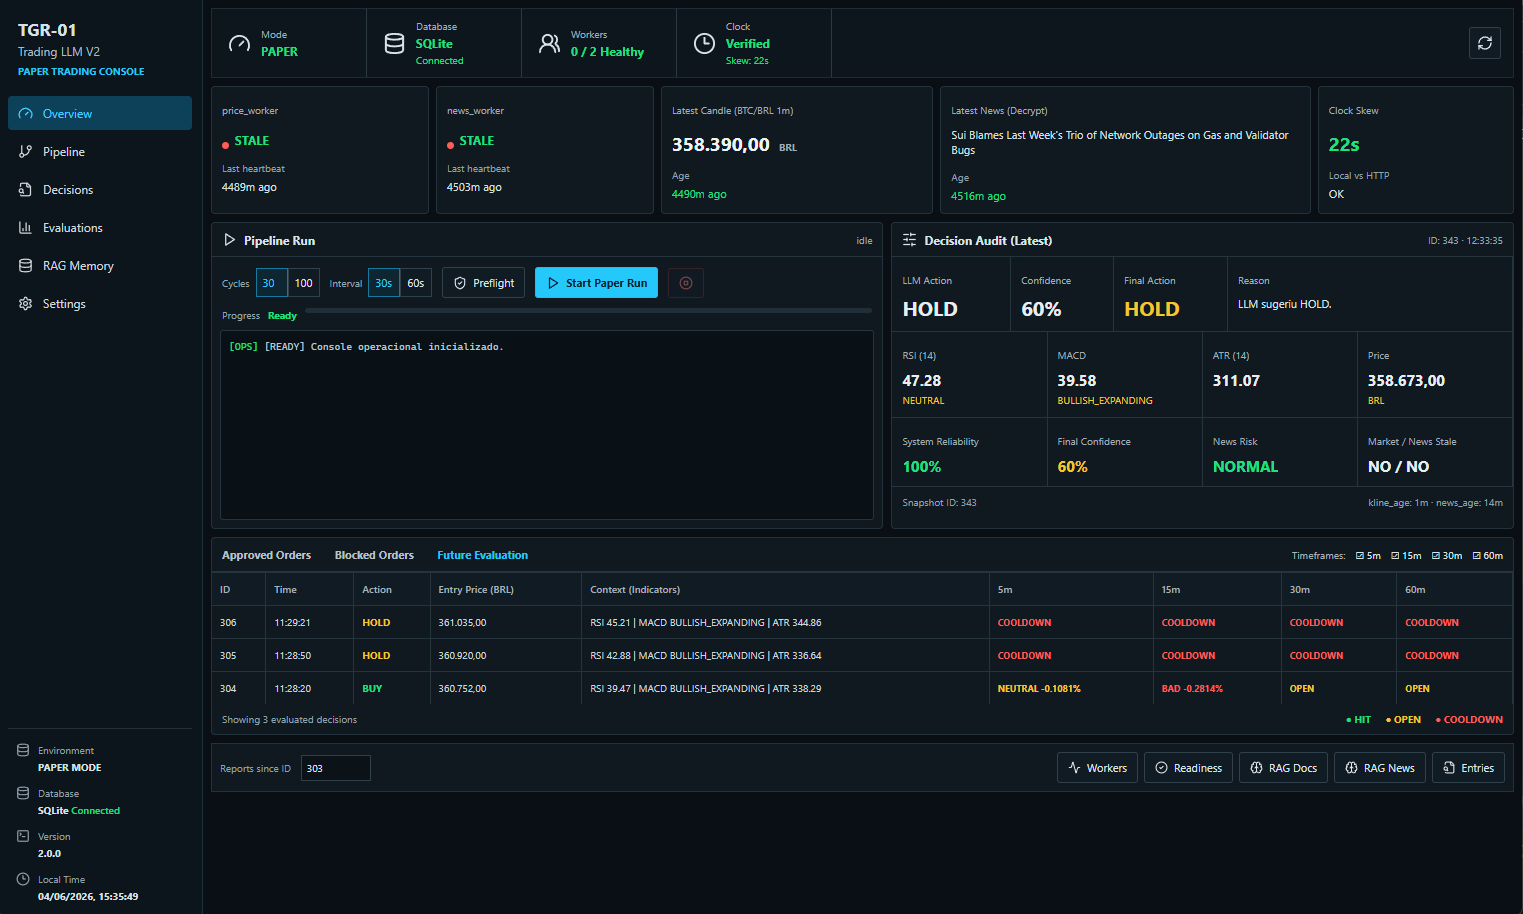
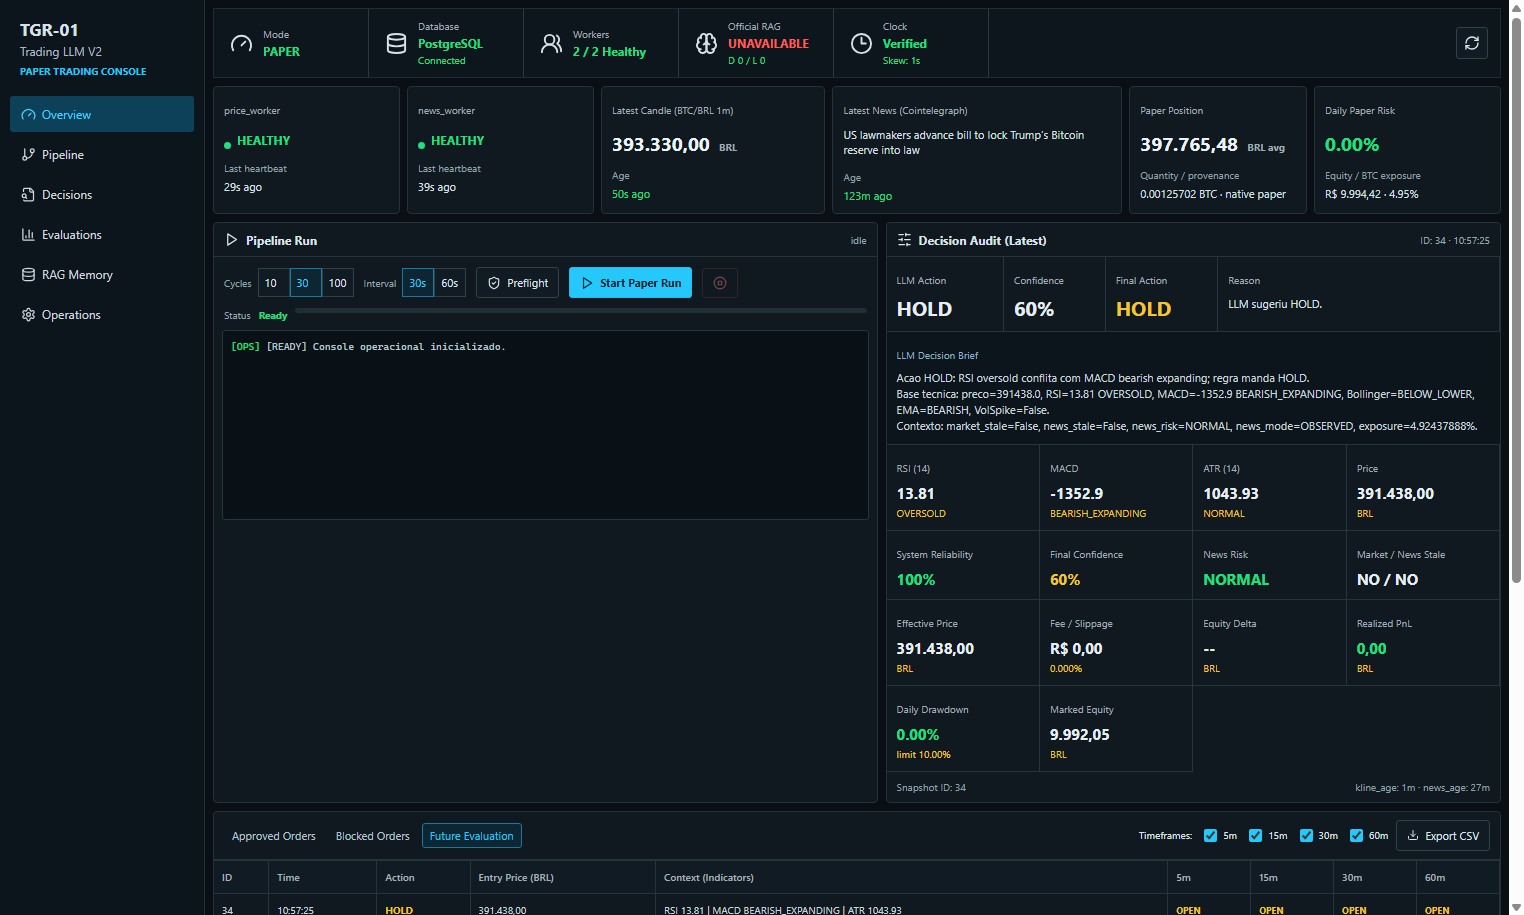
docs(readme): correct stale counts, models, commands and add live console captures

diff --git a/README.md b/README.md
@@ -24,31 +24,46 @@ observability coverage, but it has **not demonstrated a profitable strategy**.
 | Execution | Paper trading only |
 | Real exchange orders | Not implemented; authenticated BUY/SELL validation is dry-run only |
 | Active database | PostgreSQL 16 |
-| Experimental agent models | CIO: `glm-5.2:cloud`; News/Technical: `deepseek-v4-flash:cloud` through Ollama |
+| Experimental agent models | Decision `kimi-k2.7-code:cloud`; News/Technical `glm-5.3:cloud`, through the local Ollama daemon |
 | Operator interfaces | Python/Textual TUI and Electron console |
 | Neural model | TCN archived as unsuccessful research |
 | RAG | Official [Hybrid RAG Engine](https://github.com/fareloj/hybrid-rag-engine); local memory remains auxiliary |
-| Latest backend validation | 340 Python tests passing |
-| Latest desktop validation | 6 Node tests, Vite build, and Electron smoke passing |
+| Latest backend validation | 438 Python tests passing |
+| Latest desktop validation | 35 Node tests, Vite build, and Electron smoke passing |
 
-These test counts describe the state recorded on 2026-08-14. They validate
+These test counts describe the state recorded on 2026-09-16. They validate
 contracts, failure behavior, accounting, and interfaces. They do not measure
 future returns.
 
-The current Ollama Cloud configuration is a **paper-only experiment**. GLM 5.2
-acts as the CIO/Decision Agent, while DeepSeek V4 Flash handles the News and
-Technical roles when the multi-agent pipeline is enabled. This assignment is
+The current configuration is a **paper-only experiment**. The Decision Agent
+uses Kimi K2.7 Code as the final proposal, while GLM 5.3 handles the News and
+Technical roles in the multi-agent pipeline. Each role resolves its own provider,
+model, temperature, token budget and reasoning effort through
+`backend/agents/model_config.py`; the sanctioned providers are the local Ollama
+daemon, the direct Ollama Cloud API and OpenCode Go. This assignment is
 engineering configuration, not model-selection or profitability evidence.
 
 The accepted paper-only boundary and known limitations are documented in
-[Final Acceptance](docs/reports/FINAL_ACCEPTANCE.md). The latest adversarial
-review is in [Operational Red Team](docs/reports/RED_TEAM_REPORT_2026-08-01.md).
+[Final Acceptance](docs/reports/FINAL_ACCEPTANCE.md). The August operational adversarial review is in
+[Operational Red Team](docs/reports/RED_TEAM_REPORT_2026-08-01.md); subsequent
+review passes and corrections are recorded in the
+[September handoff](docs/reports/SESSION_HANDOFF_2026-09-16.md).
 
 ## Interfaces
 
 ### Electron operations console
 
 ![Electron operations console](docs/assets/electron-ops-console.png)
+
+### Cost Reality panel
+
+The console shows the cost that dominates the decision, not only the decision
+itself: the per-side cost, both round-trip hurdles, the ratio between the typical
+60-minute move and the BUY cost, the conviction gate, the blocking reasons and
+the model assigned to each role. An unknown value renders as `--`, never as a
+benign `0` or `NORMAL`.
+
+![Cost Reality panel](docs/assets/electron-cost-reality.png)
 
 ### Textual terminal interface
 
@@ -136,7 +151,7 @@ Consecutive identical episodes are compacted with a bounded `repeat_count` so
 rapid cycles cannot fill the prompt with duplicate context.
 
 ```powershell
-py -3.11 .\backend\tests\analyze_trading_runs.py --limit 30
+& ".\.venv\Scripts\python.exe" .\backend\tests\analyze_trading_runs.py --limit 30
 ```
 
 ### Authenticated exchange dry-run
@@ -151,7 +166,7 @@ withdrawal method. Its only POST is the OAuth token exchange; all exchange data
 operations are GET requests. `REAL_TRADING_ENABLED` must remain `false`.
 
 ```powershell
-py -3.11 .\backend\tests\validate_mb_order_dry_run.py `
+& ".\.venv\Scripts\python.exe" .\backend\tests\validate_mb_order_dry_run.py `
   --buy-brl 1.00 --sell-btc 0.00000150
 ```
 
@@ -176,10 +191,10 @@ aids, not ground truth about what a human trader should have done.
 Useful commands:
 
 ```powershell
-py -3.11 .\backend\tests\analyze_trade_logs.py --since-id 1 --limit 50
-py -3.11 .\backend\tests\analyze_entry_decisions.py --since-id 1
-py -3.11 .\backend\tests\evaluate_decisions.py --since-id 1 --horizons 5,15,30,60
-py -3.11 .\backend\tests\trading_readiness_report.py
+& ".\.venv\Scripts\python.exe" .\backend\tests\analyze_trade_logs.py --since-id 1 --limit 50
+& ".\.venv\Scripts\python.exe" .\backend\tests\analyze_entry_decisions.py --since-id 1
+& ".\.venv\Scripts\python.exe" .\backend\tests\evaluate_decisions.py --since-id 1 --horizons 5,15,30,60
+& ".\.venv\Scripts\python.exe" .\backend\tests\trading_readiness_report.py
 ```
 
 ### Reproducible historical campaign
@@ -194,7 +209,7 @@ assumptions. It never writes an order, trade log, or portfolio balance.
 Inspect the frozen sample without consuming provider quota:
 
 ```powershell
-py -3.11 .\backend\tests\run_historical_campaign.py `
+& ".\.venv\Scripts\python.exe" .\backend\tests\run_historical_campaign.py `
   --from-local "2026-06-06 00:00" --to-local "2026-06-07 23:59" `
   --variants current balanced --plan-only
 ```
@@ -202,7 +217,7 @@ py -3.11 .\backend\tests\run_historical_campaign.py `
 Run the same stratified comparison after reviewing the call count:
 
 ```powershell
-py -3.11 .\backend\tests\run_historical_campaign.py `
+& ".\.venv\Scripts\python.exe" .\backend\tests\run_historical_campaign.py `
   --from-local "2026-06-06 00:00" --to-local "2026-06-07 23:59" `
   --variants current balanced --news-mode historical
 ```
@@ -218,11 +233,11 @@ purged boundaries. This prevents future labels near a split from leaking into
 prompt or rule selection.
 
 ```powershell
-py -3.11 .\backend\tests\download_mb_history.py
-py -3.11 .\backend\tests\prepare_historical_evaluation_dataset.py
-py -3.11 .\backend\tests\import_historical_partition.py `
+& ".\.venv\Scripts\python.exe" .\backend\tests\download_mb_history.py
+& ".\.venv\Scripts\python.exe" .\backend\tests\prepare_historical_evaluation_dataset.py
+& ".\.venv\Scripts\python.exe" .\backend\tests\import_historical_partition.py `
   --partition development
-py -3.11 .\backend\tests\run_historical_campaign.py `
+& ".\.venv\Scripts\python.exe" .\backend\tests\run_historical_campaign.py `
   --dataset-manifest .\backend\data_exports\historical_evaluation\manifest.json `
   --partition development --variants balanced --news-mode technical-only `
   --selection-strategy stratified
@@ -242,15 +257,18 @@ A 27-call technical-only development smoke test completed without provider
 errors, but exposed a fixture contradiction: news had been removed while its
 health fields still described it as fresh. The report is retained as an
 invalidated development incident, not trading evidence. The fixture and
-auditable decision context are now deterministic; the frozen 300-call campaign
-is the next candidate evaluation. See
-[Historical Development Campaign](docs/reports/HISTORICAL_DEVELOPMENT_CAMPAIGN_2026-08-04.md).
+auditable decision context are now deterministic, and the frozen 300-call
+corrected campaign has since completed without technical errors; see
+[Historical Development Campaign](docs/reports/HISTORICAL_DEVELOPMENT_CAMPAIGN_2026-08-04.md)
+and [Corrected Campaign](docs/reports/HISTORICAL_DEVELOPMENT_BALANCED_CORRECTED.md).
+Current next-experiment guidance is in the
+[Edge and Cost Diagnostic](docs/reports/EDGE_AND_COST_DIAGNOSTIC_2026-09-16.md).
 
 Paired campaign reports can be consolidated while verifying that price, RSI,
 MACD, and ATR stayed identical across each news intervention:
 
 ```powershell
-py -3.11 .\backend\tests\compare_historical_campaigns.py `
+& ".\.venv\Scripts\python.exe" .\backend\tests\compare_historical_campaigns.py `
   "backend/reports/matrix_*.json"
 ```
 
@@ -274,6 +292,26 @@ outputs violated the stricter stale-news/evidence contract and failed closed or
 were already HOLD. This is useful safety evidence, not evidence of a profitable
 strategy. See the complete
 [multi-agent historical validation](docs/reports/MULTI_AGENT_HISTORICAL_VALIDATION_2026-08-10.md).
+
+That report predates the current role-based provider configuration; the model
+names above describe the run that was recorded, not today's defaults.
+
+### Edge versus cost diagnostic
+
+A later 120-sample campaign on the `development` partition measured net margin
+after configured costs. After a prompt-side calibration fix, the Risk Manager
+approved directional actions again, but **the mean net margin was negative at
+every tested horizon** (`-0.48%` to `-0.57%`). The observed cause is cost versus
+horizon: the configured cost is `0.35%` per side, so a BUY must clear a `0.70%`
+round-trip, while the median absolute 60-minute move in that sample was `0.470%`.
+The MACD the model received predicted the 60-minute direction at chance.
+
+Read the scope before generalizing: 120 rows over 24 overlapping windows in a
+single partition with synthetic news is **not** a walk-forward result. The
+`validation` partition and the sealed `holdout` were never touched. The finding
+supports "at this horizon and these costs the gross edge did not cover the cost",
+not a universal claim. See [Edge and Cost Diagnostic](docs/reports/EDGE_AND_COST_DIAGNOSTIC_2026-09-16.md)
+and the [session handoff](docs/reports/SESSION_HANDOFF_2026-09-16.md).
 
 ## LLM Analysis Tools
 
@@ -316,10 +354,10 @@ decision-case inspection. It is not the primary RAG backend and is not in the
 deterministic order-approval path.
 
 ```powershell
-py -3.11 .\backend\tests\ingest_rag_sources.py --project-docs
-py -3.11 .\backend\tests\ingest_rag_sources.py --news-hours 24 --news-limit 20
-py -3.11 .\backend\tests\ingest_decision_cases.py --since-id 1 --limit 100
-py -3.11 .\backend\tests\query_decision_memory.py --current-payload --limit 5
+& ".\.venv\Scripts\python.exe" .\backend\tests\ingest_rag_sources.py --project-docs
+& ".\.venv\Scripts\python.exe" .\backend\tests\ingest_rag_sources.py --news-hours 24 --news-limit 20
+& ".\.venv\Scripts\python.exe" .\backend\tests\ingest_decision_cases.py --since-id 1 --limit 100
+& ".\.venv\Scripts\python.exe" .\backend\tests\query_decision_memory.py --current-payload --limit 5
 ```
 
 ### Hybrid RAG service
@@ -344,8 +382,8 @@ unavailable, trading analysis continues without RAG evidence. RAG content
 cannot approve, block, or size an order.
 
 ```powershell
-py -3.11 .\backend\tests\query_external_rag.py --health
-py -3.11 .\backend\tests\query_external_rag.py "where is stale market data rejected"
+& ".\.venv\Scripts\python.exe" .\backend\tests\query_external_rag.py --health
+& ".\.venv\Scripts\python.exe" .\backend\tests\query_external_rag.py "where is stale market data rejected"
 ```
 
 ## TCN Research: Archived
@@ -375,11 +413,18 @@ See [TCN archive boundary](backend/ml/ARCHIVED.md) and
 
 Requirements:
 
-- Python 3.11;
+- Python 3.11, with the project virtual environment created at `.venv`;
 - Docker Desktop or another Docker Compose runtime;
 - Node.js for the Electron interface;
 - one compatible LLM API key for decision experiments.
 - Ollama signed in locally when using the experimental cloud-model default.
+
+The commands below run the project interpreter explicitly. The global `py -3.11`
+launcher does not have this project's dependencies installed:
+
+```powershell
+& ".\.venv\Scripts\python.exe" -m pip install -r backend\requirements.txt
+```
 
 Create local configuration files:
 
@@ -392,36 +437,38 @@ Set a strong local PostgreSQL password and keep `DATABASE_URL` consistent.
 Never commit either `.env` file.
 
 The example `backend/.env.example` selects Ollama's local OpenAI-compatible
-endpoint and `glm-5.2:cloud`. `LLM_*` variables are canonical. Existing
+endpoint and `kimi-k2.7-code:cloud`. `LLM_*` variables are canonical. Existing
 `GROQ_*` variables remain supported as a legacy fallback for comparisons.
 
 An experimental multi-agent configuration is also documented, but remains
-disabled and shadow-only by default. It assigns `deepseek-v4-flash:cloud` to news
-analysis and interpretation of the deterministic eight-hour technical context,
-and the configured Decision model to the final proposal. Both configured tags
-passed a live structured-contract smoke test on 2026-08-14. This is an
-evaluation configuration, not evidence that multiple agents improve trading
-results. Outputs retain source IDs and the final model also receives the
-original snapshot to reduce correlated summary risk.
+disabled and shadow-only by default. It assigns `glm-5.3:cloud` to news
+analysis and interpretation of the deterministic technical context, and
+`kimi-k2.7-code:cloud` to the final proposal, each with its own provider, token
+budget and reasoning effort (`glm-5.3` measured better and roughly 7x faster at
+`reasoning_effort=low`, so the news and technical roles set it and the decision
+role leaves it unset). Both tags passed a live structured-contract smoke test on
+2026-09-16. This is an evaluation configuration, not evidence that multiple
+agents improve trading results. Outputs retain source IDs and the final model
+also receives the original snapshot to reduce correlated summary risk.
 
 Start PostgreSQL and initialize the schema:
 
 ```powershell
 docker compose up -d db
-py -3.11 .\backend\core\database.py
+& ".\.venv\Scripts\python.exe" .\backend\core\database.py
 ```
 
 Start workers and run strict preflight:
 
 ```powershell
-py -3.11 .\backend\tests\start_workers.py
-py -3.11 .\backend\tests\preflight_data_date.py --require-news-today --require-workers --require-clock-sync
+& ".\.venv\Scripts\python.exe" .\backend\tests\start_workers.py
+& ".\.venv\Scripts\python.exe" .\backend\tests\preflight_data_date.py --require-news-today --require-workers --require-clock-sync
 ```
 
 Run paper trading only after preflight passes:
 
 ```powershell
-py -3.11 .\backend\tests\run_paper_trading.py --cycles 10 --sleep 900
+& ".\.venv\Scripts\python.exe" .\backend\tests\run_paper_trading.py --cycles 10 --sleep 900
 ```
 
 The worker keeps one-minute candles for indicator continuity. The Decision
@@ -434,8 +481,8 @@ For auditable forward testing, collection and future evaluation are separate
 phases. The finalizer refuses to score horizons that have not matured:
 
 ```powershell
-py -3.11 .\backend\ops\run_forward_session.py collect --cycles 96 --sleep 900 --horizons 15,60,240,480
-py -3.11 .\backend\ops\run_forward_session.py finalize --session forward_YYYYMMDD_HHMMSS_utc
+& ".\.venv\Scripts\python.exe" .\backend\ops\run_forward_session.py collect --cycles 96 --sleep 900 --horizons 15,60,240,480
+& ".\.venv\Scripts\python.exe" .\backend\ops\run_forward_session.py finalize --session forward_YYYYMMDD_HHMMSS_utc
 ```
 
 Each session records its starting trade-log ID, model configuration, command
@@ -481,10 +528,10 @@ caches.
 Backend:
 
 ```powershell
-py -3.11 -m pytest backend\tests -q
-py -3.11 .\backend\tests\chaos_monkey.py
-py -3.11 .\backend\tests\redteam_llm_matrix.py
-py -3.11 .\backend\tests\trading_readiness_report.py
+& ".\.venv\Scripts\python.exe" -m pytest backend\tests -q
+& ".\.venv\Scripts\python.exe" .\backend\tests\chaos_monkey.py
+& ".\.venv\Scripts\python.exe" .\backend\tests\redteam_llm_matrix.py
+& ".\.venv\Scripts\python.exe" .\backend\tests\trading_readiness_report.py
 ```
 
 Desktop:
@@ -526,6 +573,13 @@ dependencies are ignored by Git.
 ## Known Limitations
 
 - No claim of profitability or predictive edge is supported by current data.
+- The measured net margin after configured costs was negative at every tested
+  horizon on the `development` partition, and the configured round-trip cost
+  exceeded the median absolute 60-minute move. That result is one partition with
+  overlapping windows and synthetic news, not a walk-forward proof.
+- The configured fee (`PAPER_FEE_RATE=0.003`) is a configuration premise, not a
+  measurement of the real account fee. It has not been confirmed against the
+  exchange fee table.
 - The live Decision Agent has been checked on a small adversarial matrix, not a
   statistically representative market sample.
 - The historical campaign runner exists, but a statistically useful conclusion
